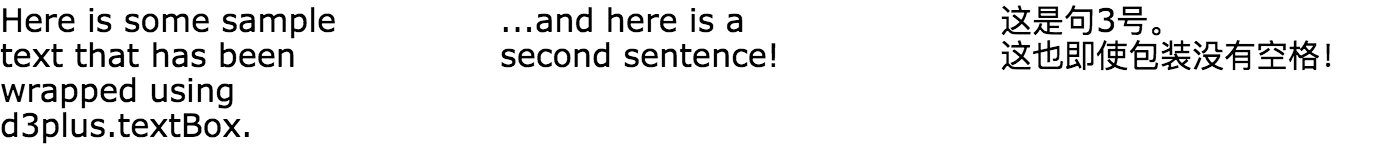
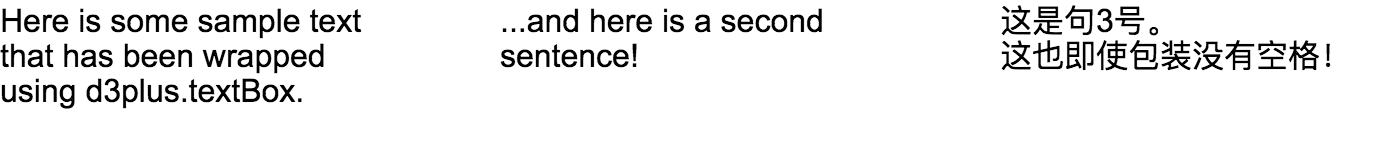
sets default fontFamily to “Verdana”

diff --git a/test/textWrap.js b/test/textWrap.js
@@ -4,9 +4,7 @@ import {default as textWrap} from "../src/textWrap.js";
 test("textWrap", assert => {
 
   const sentence = "Hello D3plus, please wrap this sentence for me.",
-        testWrap = textWrap()
-          .fontFamily("Verdana").fontSize(14)
-          (sentence);
+        testWrap = textWrap().fontSize(14)(sentence);
 
   assert.true(testWrap.lines[0] === "Hello D3plus, please wrap" &&
               testWrap.lines[1] === "this sentence for me.", "returning wrapped lines");

diff --git a/src/textBox.js b/src/textBox.js
@@ -44,7 +44,7 @@ export default function(data = []) {
       duration = 0,
       ellipsis = boxEllipsis,
       fontColor,
-      fontFamily = constant("sans-serif"),
+      fontFamily = constant("Verdana"),
       fontMax = constant(50),
       fontMin = constant(8),
       fontResize = constant(false),

diff --git a/test/textBox.js b/test/textBox.js
@@ -11,7 +11,6 @@ test("textBox", assert => {
 
   const testBox = textBox()
     .data([data])
-    .fontFamily("Verdana")
     .fontSize(14)
     .height(height)
     .width(width)

diff --git a/example/getting-started.md b/example/getting-started.md
@@ -13,12 +13,11 @@ var data = [
 ];
 ```
 
-And finally, this is how that data array would be passed to the [textBox](https://github.com/d3plus/d3plus-text#textBox) generator. Please note the `()` at the end of the chain of commands. This is what tells the [textBox](https://github.com/d3plus/d3plus-text#textBox) to finally render to the page, and allows setting multiple properties of the [textBox](https://github.com/d3plus/d3plus-text#textBox) without it trying to render after each one is set.
+And finally, this is how that data array would be passed to the [textBox](https://github.com/d3plus/d3plus-text#textBox) generator.
 
 ```js
 d3plus.textBox()
   .data(data)
-  .fontFamily("Verdana")
   .fontSize(16)
   .width(200)
   .x(function(d, i) { return i * 250; })
@@ -26,3 +25,5 @@ d3plus.textBox()
 ```
 
 While [textBox](https://github.com/d3plus/d3plus-text#textBox) comes with some handy defaults, this example shows how any of the methods can be overridden with static values or accessor functions. For more information on how the [textSplit](#textSplit) function splits strings, specifically in languages that don't use spaces, check out [this blog post](https://blog.datawheel.us/english-is-not-chinese-69b43959bb47).
+
+*Please note the `()` at the end of the chain of commands. This is what tells the [textBox](https://github.com/d3plus/d3plus-text#textBox) to finally render to the page, and allows setting multiple properties of the [textBox](https://github.com/d3plus/d3plus-text#textBox) without it trying to render after each one is set.*

diff --git a/example/resizing-text.md b/example/resizing-text.md
@@ -17,7 +17,6 @@ Here, we can compare the output of using [fontResize](https://github.com/d3plus/
 ```js
 d3plus.textBox()
   .data(data)
-  .fontFamily("Verdana")
   .fontResize(function(d) { return d.resize; })
   .height(100)
   .width(200)
